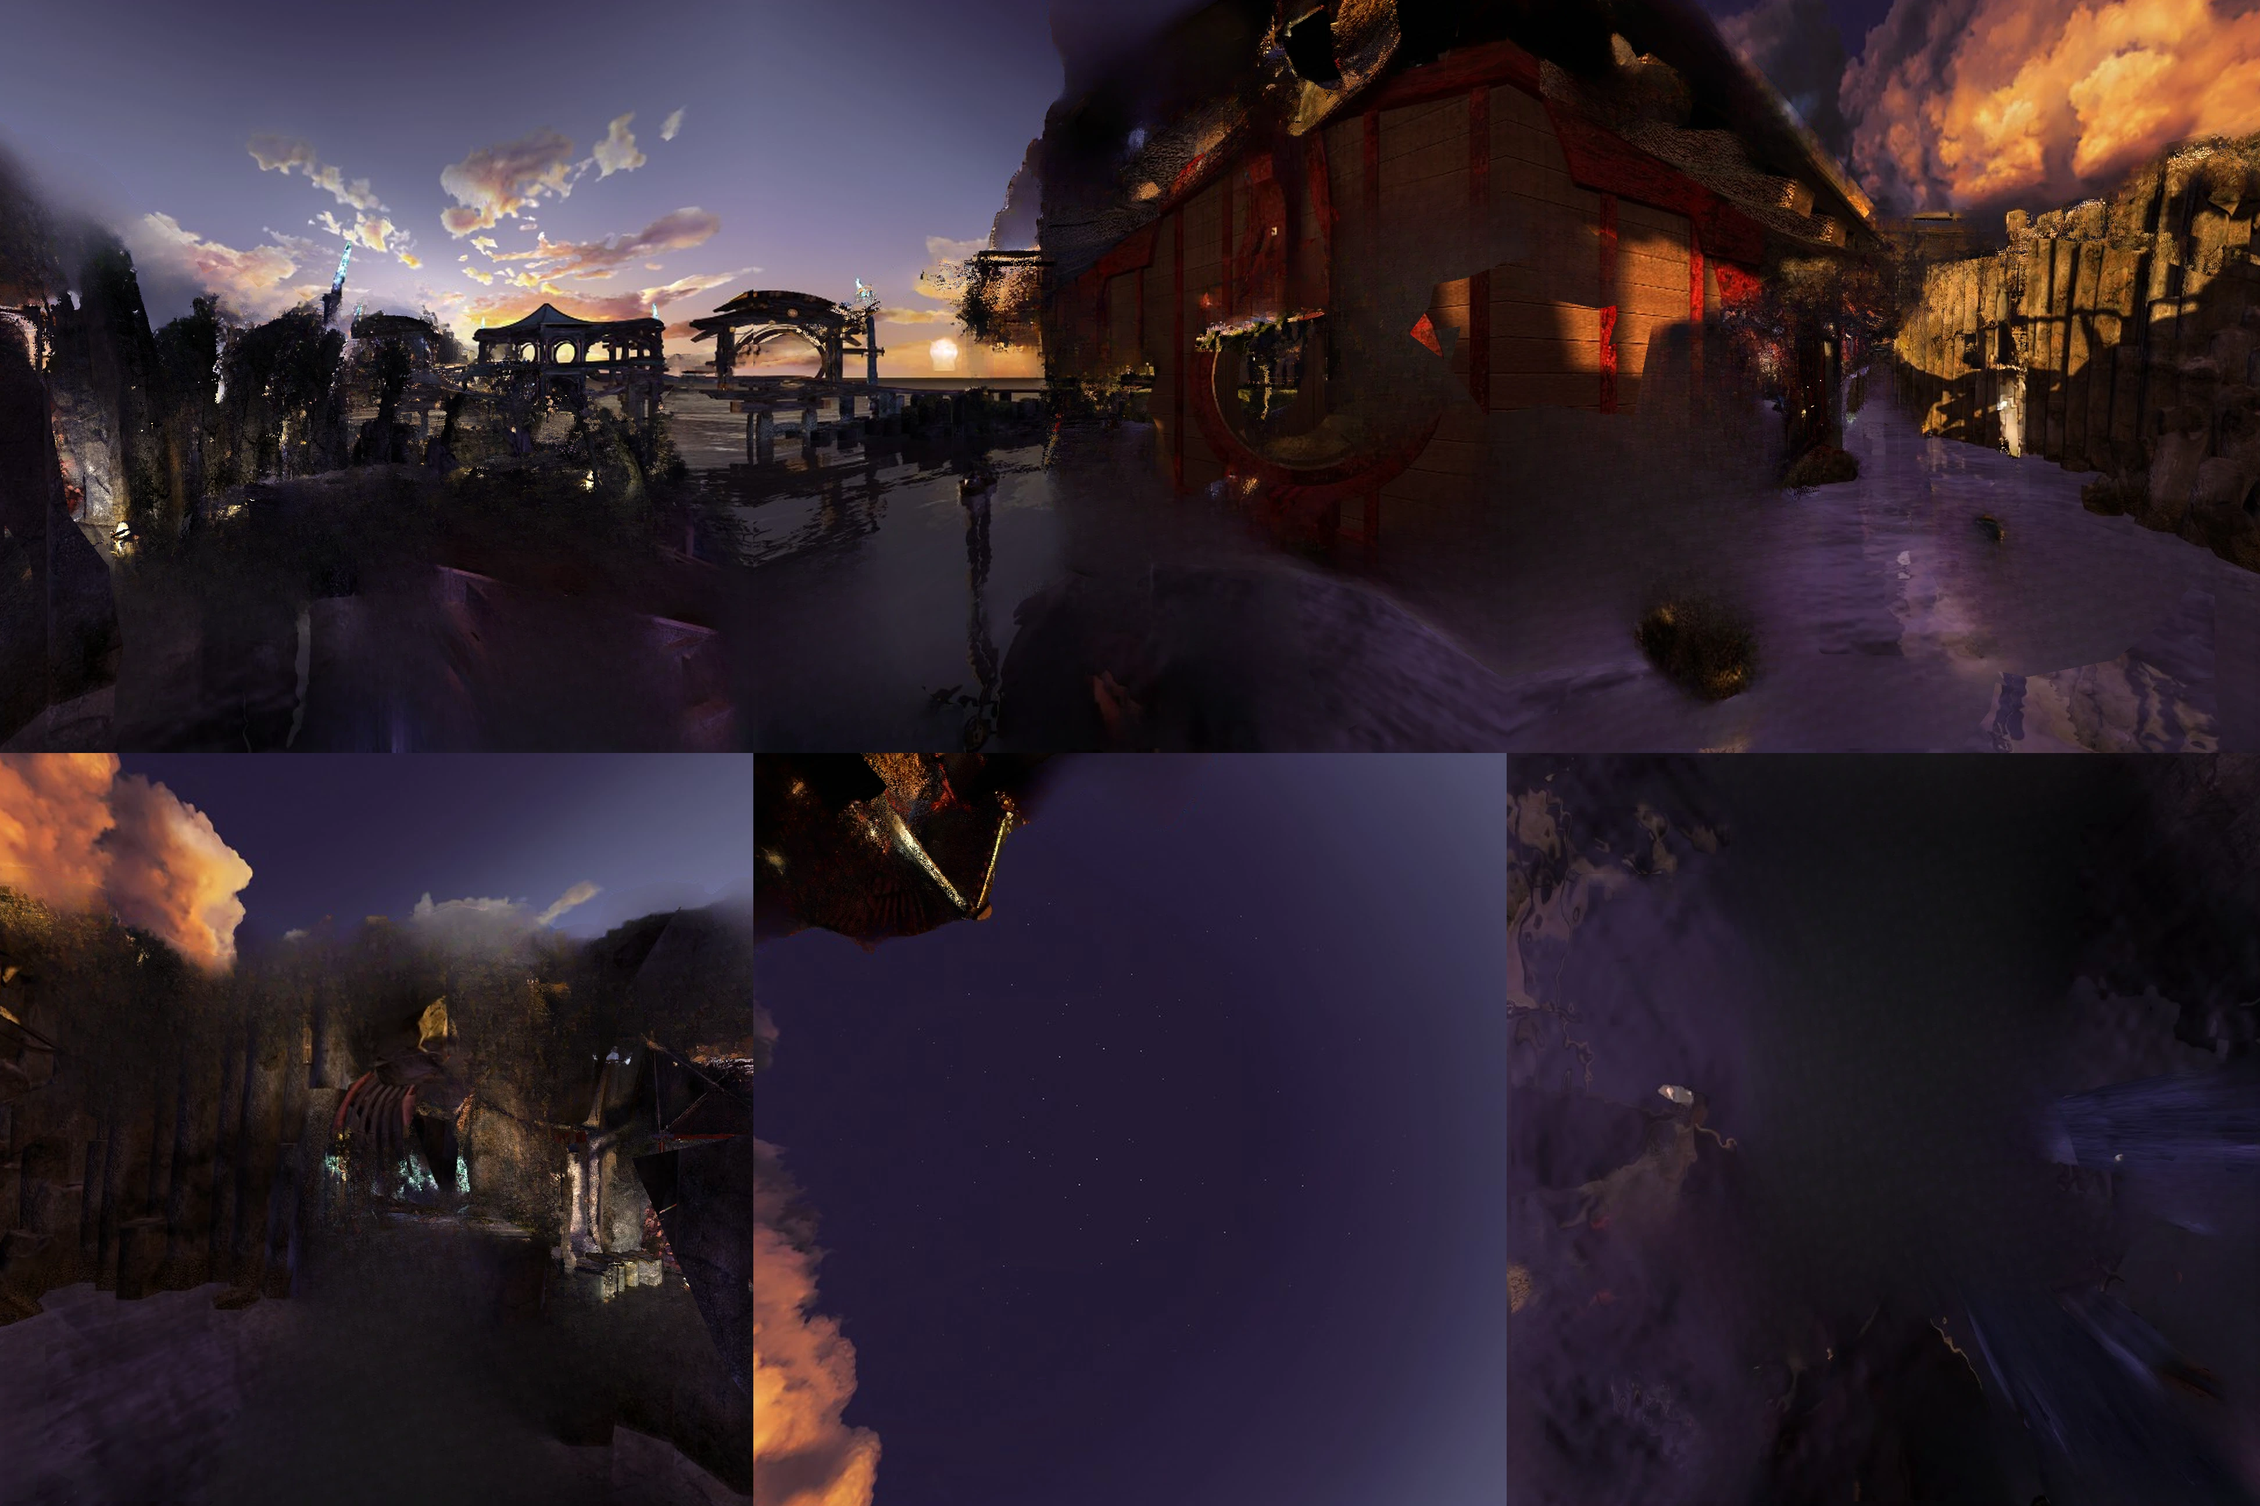
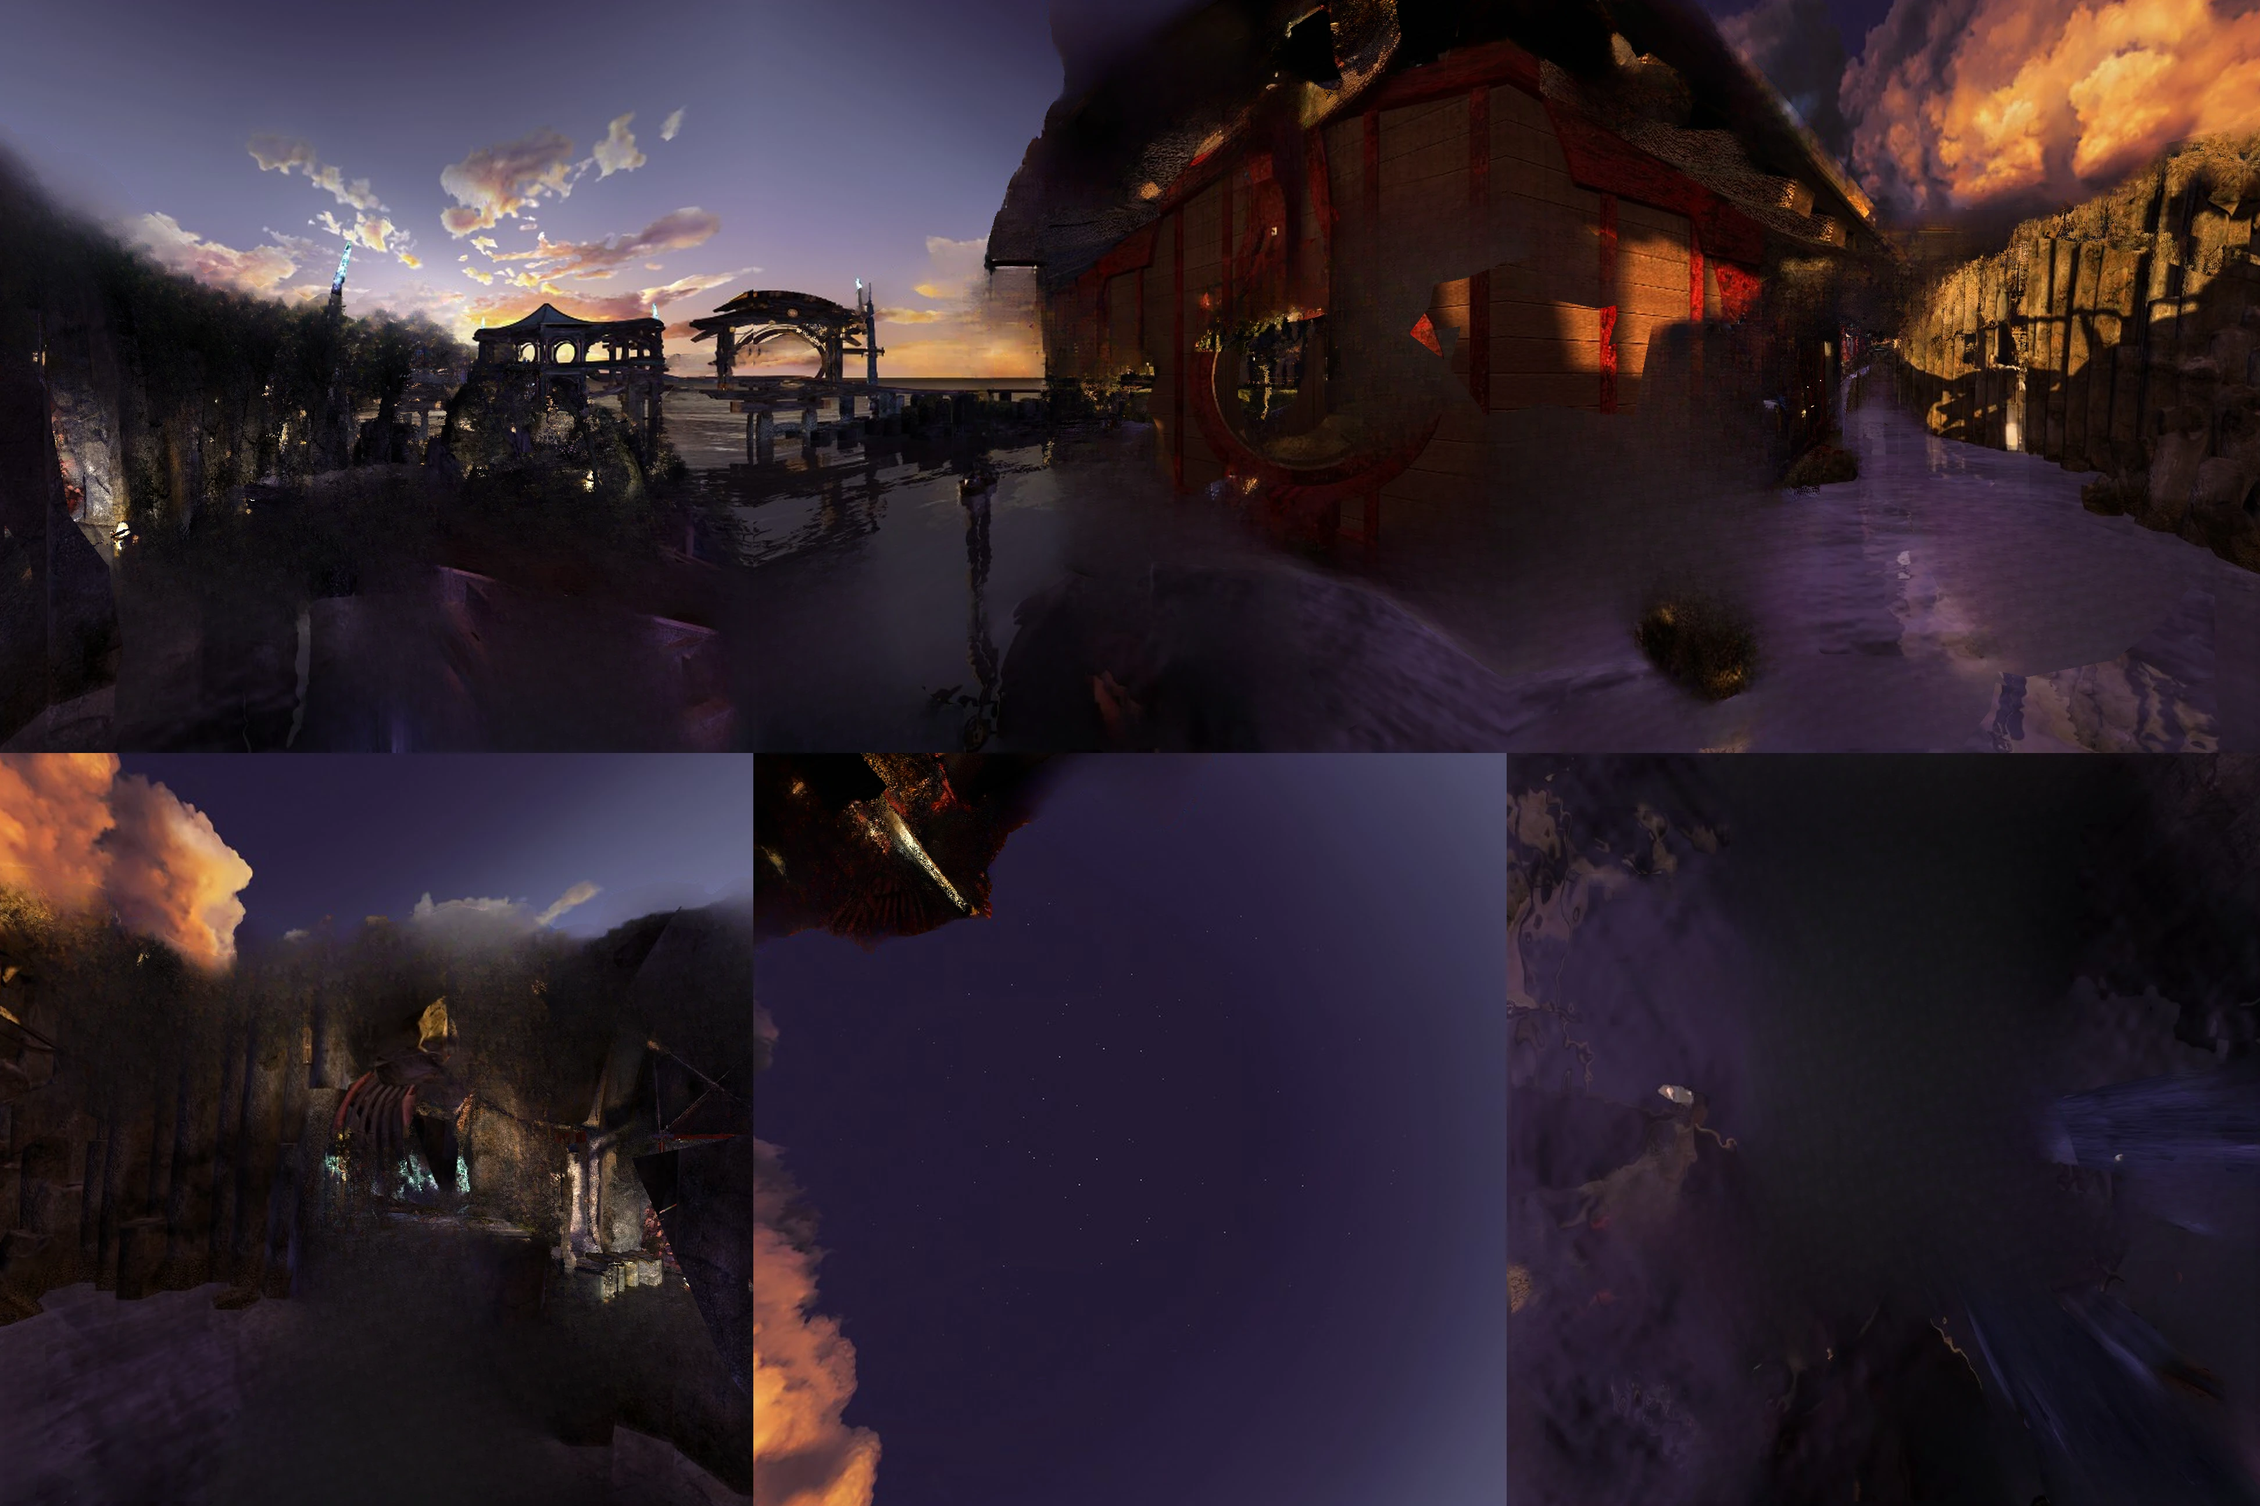
MASS 84: no clouds or reflections in the backdrop, and the lamp glass at the shade's depth
On a phone, looking at the lamp post and the track on face 1, the backdrop
showed a dark and orange speckle in the sky and a second post, and the lamp
glass stayed on the sky while its shade moved. The speckle was lit clouds,
which the neighbours' stereo put a little behind the post. The second post
was the post's reflection, which stereo puts below the water.
model_backdrop.py --masks now leaves out what the neighbours' sky masks black
out (sky, sea, water), and LaMa paints those parts. build_layers.py --light
gives a pale light that the measured depth calls sky the depth of the solid
pixels it touches. Both are set in layers/nodes/mass84.json with the reason.

Claude-Session: https://claude.ai/code/session_01PGTZsQJKeQ77ippduWGzGV

diff --git a/cube/myst3/layers/build_layers.py b/cube/myst3/layers/build_layers.py
@@ -48,6 +48,15 @@ The four slots, per face:
              far side of the nearest jump, so the backdrop there lies where
              the hidden surface would be.
 
+A light against the sky (--light K:X0,Y0,X1,Y1, a box on face K in pixels of a
+640 px face): MASS 84's lamp glass, pale and glowing in front of the sunset,
+was sky in the measured depth, so the glass stayed on the sky while its shade
+moved with the post, and the backdrop kept the glass where the lamp had been
+taken out. In the box, the sky-depth pixels paler than the box's sky (their
+brightness less 100 times their saturation over the median of the sky on the
+box's border by more than 20), closed and filled, take one depth: the median of
+the solid pixels they touch (the shade).
+
 A jump: two pixels 2 px apart whose inverse distance differs by more than
 --jump, in units of the farthest distance the encoding keeps (q = 1 + 19 d,
 proportional to 1/r; the depth maps are d = (r_far/r - 1)/19). The viewer's
@@ -260,6 +269,34 @@ def removed_region(q, t, band, reach, belong=0.5):
     return whole & (dist <= band), whole, fq
 
 
+def light_fix(q, rgb, box, S):
+    """q with the pale glowing pixels at sky depth in box (x0, y0, x1, y1, at 640 px)
+    given the depth of the nearest pixel that has one; and how many changed."""
+    x0, y0, x1, y1 = (int(round(v * S)) for v in box)
+    qb = q[y0:y1, x0:x1]; c = rgb[y0:y1, x0:x1].astype(np.float32)
+    mx = c.max(2); sat = (mx - c.min(2)) / np.maximum(mx, 1)
+    pale = c.mean(2) - 100 * sat
+    sky = qb <= 1.0001
+    border = np.zeros(sky.shape, bool); border[[0, -1], :] = True; border[:, [0, -1]] = True
+    if not (sky & border).any():
+        return q, 0
+    glow = sky & (pale > np.median(pale[sky & border]) + 20)
+    k = cv2.getStructuringElement(cv2.MORPH_ELLIPSE, (5, 5))
+    glow = cv2.morphologyEx(glow.astype(np.uint8), cv2.MORPH_CLOSE, k) > 0
+    n, lab = cv2.connectedComponents((~glow).astype(np.uint8), connectivity=4)
+    outside = np.unique(lab[border & ~glow])
+    glow = (glow | ~np.isin(lab, outside)) & sky              # holes in it filled
+    if not glow.any():
+        return q, 0
+    # one depth for the whole light: that of the solid pixels it touches (the shade)
+    ring = (cv2.dilate(glow.astype(np.uint8), np.ones((5, 5), np.uint8)) > 0) & ~sky
+    if not ring.any():
+        return q, 0
+    out = q.copy()
+    out[y0:y1, x0:x1] = np.where(glow, np.median(qb[ring]), qb)
+    return out, int(glow.sum())
+
+
 class Lama:
     def __init__(self, path):
         import torch
@@ -300,6 +337,8 @@ def main():
     ap.add_argument('--colour-suffix', default='_orig.jpeg'); ap.add_argument('--depth-suffix', default='_measured-depth.png')
     ap.add_argument('--hole', type=int, default=12, help='px of the far side of a step cut out of the foreground')
     ap.add_argument('--hole-step', type=int, default=6, help='px of the hole the near depth carries on under')
+    ap.add_argument('--light', action='extend', nargs='+', default=[],
+                    help='K:X0,Y0,X1,Y1: a light against the sky in this box of face K (640 px) given the depth of what holds it')
     a = ap.parse_args()
     os.makedirs(a.out, exist_ok=True)
     col, dep = {}, {}
@@ -311,6 +350,12 @@ def main():
     S = N / 640
     sc = lambda v: max(1, int(round(v * S)))
     PAD_ = sc(PAD)
+    for spec in a.light:
+        k, box = spec.split(':')
+        k = int(k)
+        q, n = light_fix(1 + (RATIO - 1) * dep[k].astype(np.float32) / 255, col[k], [float(v) for v in box.split(',')], S)
+        dep[k] = np.clip(np.rint((q - 1) / (RATIO - 1) * 255), 0, 255).astype(np.uint8)
+        print(f'face {faces[k]}: {n} px of a light against the sky given the depth of what holds it')
     C = np.stack([col[k] for k in range(1, 7)]).astype(np.float32)
     D = np.stack([dep[k] for k in range(1, 7)]).astype(np.float32) / 255
     Q = 1 + (RATIO - 1) * D

diff --git a/cube/myst3/colmap/model_backdrop.py b/cube/myst3/colmap/model_backdrop.py
@@ -5,7 +5,7 @@ model that saw it: colour and depth for build_layers.py's backdrop.
 
     python model_backdrop.py DENSE SPARSE_TXT NODE SHARP_DIR NODE_DEPTH_JSON OUT
         [--names N1 ... N6] [--depth-suffix _sharp-depth.png] [--neighbours 12]
-        [--behind 1.1] [--splat 2]
+        [--behind 1.1] [--splat 2] [--masks MASKS]
 
 DENSE is a run_dense.ps1 (or node_stereo.py) workspace: images/f<k>/<name>.jpg
 and stereo/depth_maps/f<k>/<name>.jpg.geometric.bin. SPARSE_TXT is the text
@@ -27,6 +27,14 @@ only if its node saw it within --max-angle (30) degrees of our own line of
 sight, and not when it has the foreground pixel's colour within --same (1.6)
 times its distance: then it is the foreground itself.
 Where no node saw anything behind, LaMa still paints.
+
+With --masks (sky_masks.py's: MASKS/f<k>/<name>.png, black on the sky, sea
+and water), no pixel a neighbour's mask blacks out is used. Stereo gives the
+clouds and the sea depths of their own: lit clouds came out a little behind
+MASS 84's lamp post and track and were kept there as a dark and orange
+speckle in the sky, and the post's reflection in the water, which stereo puts
+below the water as far again, landed just behind the post as a second post.
+LaMa paints sky and sea well from the node's own picture.
 
 Writes, per face, OUT/<name>_model-bg.png (RGBA: alpha 255 where a point
 landed) and OUT/<name>_model-bg-q.npy (float32 r_far / r, 0 where none), at the
@@ -75,6 +83,7 @@ def main():
     ap.add_argument('--splat', type=int, default=2)
     ap.add_argument('--same', type=float, default=1.6)
     ap.add_argument('--max-angle', type=float, default=30.0)
+    ap.add_argument('--masks', help="sky_masks.py's folder: the neighbours' pixels it blacks out (sky, sea, water) are not used")
     a = ap.parse_args()
     os.makedirs(a.out, exist_ok=True)
     r_far = json.load(open(a.node_json))['r_far']
@@ -118,7 +127,7 @@ def main():
         fgc[k] = np.asarray(img).astype(np.int16)
     best_q = {k: np.zeros((N, N), np.float32) for k in fg}
     best_c = {k: np.zeros((N, N, 3), np.uint8) for k in fg}
-    used = 0
+    used = masked = 0
     for n in near:
         for k2 in range(1, 7):
             name = f'f{k2}/{n}'
@@ -128,7 +137,14 @@ def main():
             z = read_colmap_array(dm)
             img = np.asarray(Image.open(os.path.join(a.dense, 'images', f'f{k2}', n)).convert('RGB'))
             H, W = z.shape
-            v, u = np.nonzero(z > 0)
+            valid = z > 0
+            if a.masks:
+                mp = os.path.join(a.masks, f'f{k2}', n + '.png')
+                if os.path.exists(mp):
+                    mk = np.asarray(Image.open(mp).convert('L').resize((W, H), Image.NEAREST))
+                    valid &= mk > 127
+                    masked += 1
+            v, u = np.nonzero(valid)
             if not len(v):
                 continue
             used += 1
@@ -177,7 +193,7 @@ def main():
                         keep = q > best_q[k][yy, xx]
                         best_q[k][yy[keep], xx[keep]] = q[keep]
                         best_c[k][yy[keep], xx[keep]] = c[keep]
-    print(f'{used} neighbouring faces with depth projected')
+    print(f'{used} neighbouring faces with depth projected' + (f', {masked} with a sky and water mask' if a.masks else ''))
     for k, name in enumerate(a.names, 1):
         has = best_q[k] > 0
         rgba = np.dstack([best_c[k], np.where(has, 255, 0).astype(np.uint8)])

diff --git a/cube/myst3/README.md b/cube/myst3/README.md
@@ -180,7 +180,7 @@ checks the geometry; nothing has been reconstructed yet.
 | `colmap/register_video.ps1` | Measures a movie's camera from the movie alone, then continues a finished model with the frames (the mapper with the model's frames held). |
 | `colmap/sharpen_depth.py` | A site node's measured depth redrawn at 1280 px from the node's faces (the game's 640 px ones, enlarged): Depth Anything V2 Large at an input of 1036 px, fitted to the measured depth away from its outlines, seams closed; outlines that follow the picture, for Amateria's *Layered* version. Needs torch, transformers, opencv-python. |
 | `layers/build_node.py` | Builds a site node's Layered version from its file in `layers/nodes/` (every setting, and why it differs from the default): `colmap/sharpen_depth.py`, `colmap/model_backdrop.py`, `layers/build_layers.py`, then prints the `layers/stitch_layers.js` command. |
-| `layers/build_layers.py` | The four slots' face images of a Layered version: holes on the far side of every depth step, the backdrop from `model_backdrop.py` where other nodes saw it and LaMa elsewhere. Needs numpy, Pillow, opencv-python, torch. |
+| `layers/build_layers.py` | The four slots' face images of a Layered version: holes on the far side of every depth step, the backdrop from `model_backdrop.py` where other nodes saw it and LaMa elsewhere. `--light` gives a lamp against the sky, which the measured depth calls sky, the depth of what holds it. Needs numpy, Pillow, opencv-python, torch. |
 | `layers/grate_layers.py` | Voltaic's ENCH grate node, the one built its own way: holes from the wire mesh's colour, floor by push-pull. |
 | `layers/stitch_layers.js` | The face images into four 3×2 atlases through `stitcher.html` (Playwright). |
 | `colmap/node_consistency.py` | Which nodes of a model disagree with their neighbours: each node's depth-map points projected into its nearest nodes' depth maps, the share a neighbour sees past (or, with `--masks`, sky). Finds single misplaced nodes; misses runs of them, which agree with one another. Needs numpy, Pillow. |
@@ -198,7 +198,7 @@ checks the geometry; nothing has been reconstructed yet.
 | `colmap/pano_depth.py` | A node's depth from one panoramic prediction (Depth Any Panoramas) over its six faces sewn together, fitted to the measured depth with one factor, beside the site's. |
 | `colmap/seam_band_error.py` | A depth map's distance from the measured depth near the cube's edges and inside. |
 | `colmap/ghost_points.py` | The points of a fused cloud that a set of trusted nodes see straight through (a farther depth, or sky), written out as a cloud, and for each node or movie the share of the points it helped make that are such ghosts (from `fused.ply.vis`). Needs numpy, Pillow. |
-| `colmap/model_backdrop.py` | What is really behind a site node's near objects: the nearest nodes' dense depth maps projected into its faces, each pixel keeping the nearest point behind the foreground, for `build_layers.py --model-bg`. Needs numpy, Pillow, opencv-python. |
+| `colmap/model_backdrop.py` | What is really behind a site node's near objects: the nearest nodes' dense depth maps projected into its faces, each pixel keeping the nearest point behind the foreground, for `build_layers.py --model-bg`; `--masks` leaves out what the neighbours' sky masks black out (sky, sea, water). Needs numpy, Pillow, opencv-python. |
 | `colmap/filter_sky.py` | Takes sky out of a database and model whose node faces were matched before there were masks: drops verified matches with an end on `sky_masks.py`'s black, and model points seen mostly there. Needs numpy, Pillow. |
 | `colmap/sky_masks.py` | Feature masks that leave out sky, sea and water (SegFormer, ADE20K), for movie frames: matches on the sky fix which way a picture looks but not where. Needs torch, transformers. |
 | `colmap/node_stereo.py` | `patch_match_stereo` for one node's six faces and the images they share most points with, instead of every image. |
@@ -940,6 +940,35 @@ model put behind the arches is gone. LaMa still paints the rest: what is
 hidden from MASS 84 is mostly behind the house, which no node sees. Rebuilt
 from `layers/nodes/mass84.json` and shipped; the foreground atlases are
 unchanged.
+
+On a phone, looking along face 1 at the lamp post and the track overhead,
+three faults showed:
+
+- **Clouds:** the neighbours' stereo gave the lit clouds depths a little
+  behind the post and the track. The backdrop kept them there as a dark and
+  orange speckle in the sky.
+- **A second post:** stereo puts the post's reflection below the water, about
+  as far down as the post is high. Projected into MASS 84 it landed just
+  behind the post, and showed as a second post when the eye moved.
+- **The lamp glass:** the glass hangs pale in front of the sunset, and the
+  measured depth called it sky. The shade moved with the post, the glass
+  stayed on the sky, and the backdrop kept a copy of the glass where the lamp
+  had been taken out.
+
+`model_backdrop.py --masks` now leaves out every neighbour pixel its sky mask
+blacks out (`sky_masks.py`'s sky, sea and water), and LaMa paints those parts
+of the backdrop from MASS 84's own picture. `build_layers.py --light
+1:142,280,180,315` gives the glass the shade's depth. Within that box, the
+glass is the sky-depth pixels paler than the sky on the box's border, 2,247 px
+at 1280. The foreground's colour is unchanged, and its depth changed only at
+the glass.
+
+| face | 1 | 2 | 3 | 4 | 5 | 6 |
+|---|---|---|---|---|---|---|
+| seen by other nodes, moved model, sky and water masked | 2.7% | 0.0% | 9.5% | 2.6% | 17.3% | 14.5% |
+
+Less of the hidden area is real content now, but none of it is cloud or
+reflection. Rebuilt and shipped on 8 November 2026.
 
 ## Depth for the site's Amateria node (MAWW 101)
 
